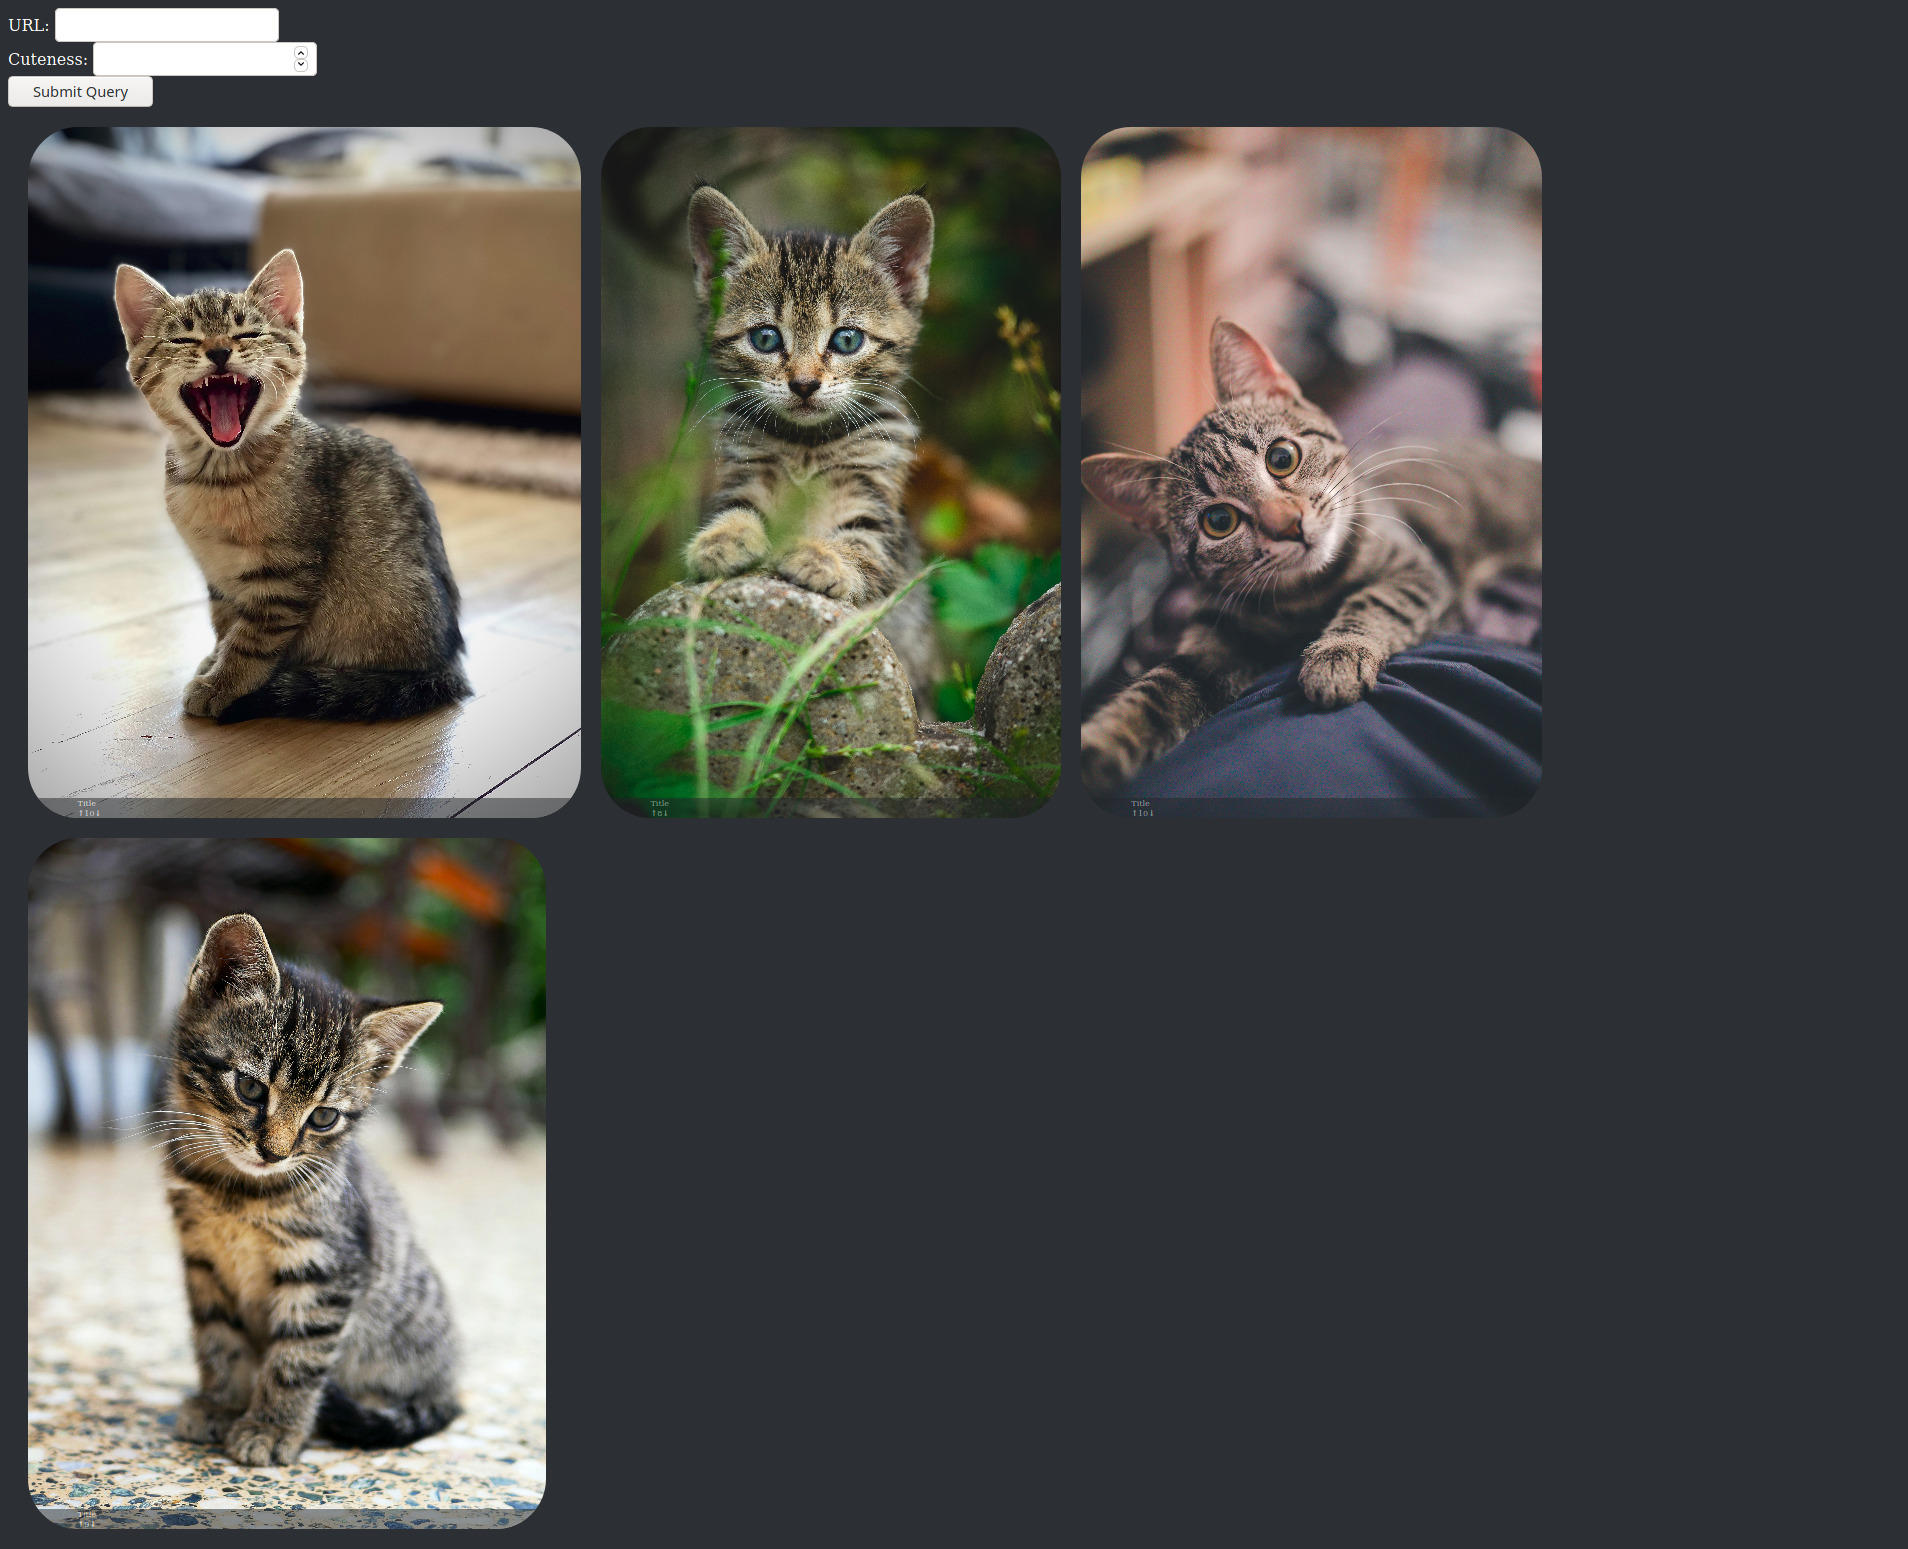
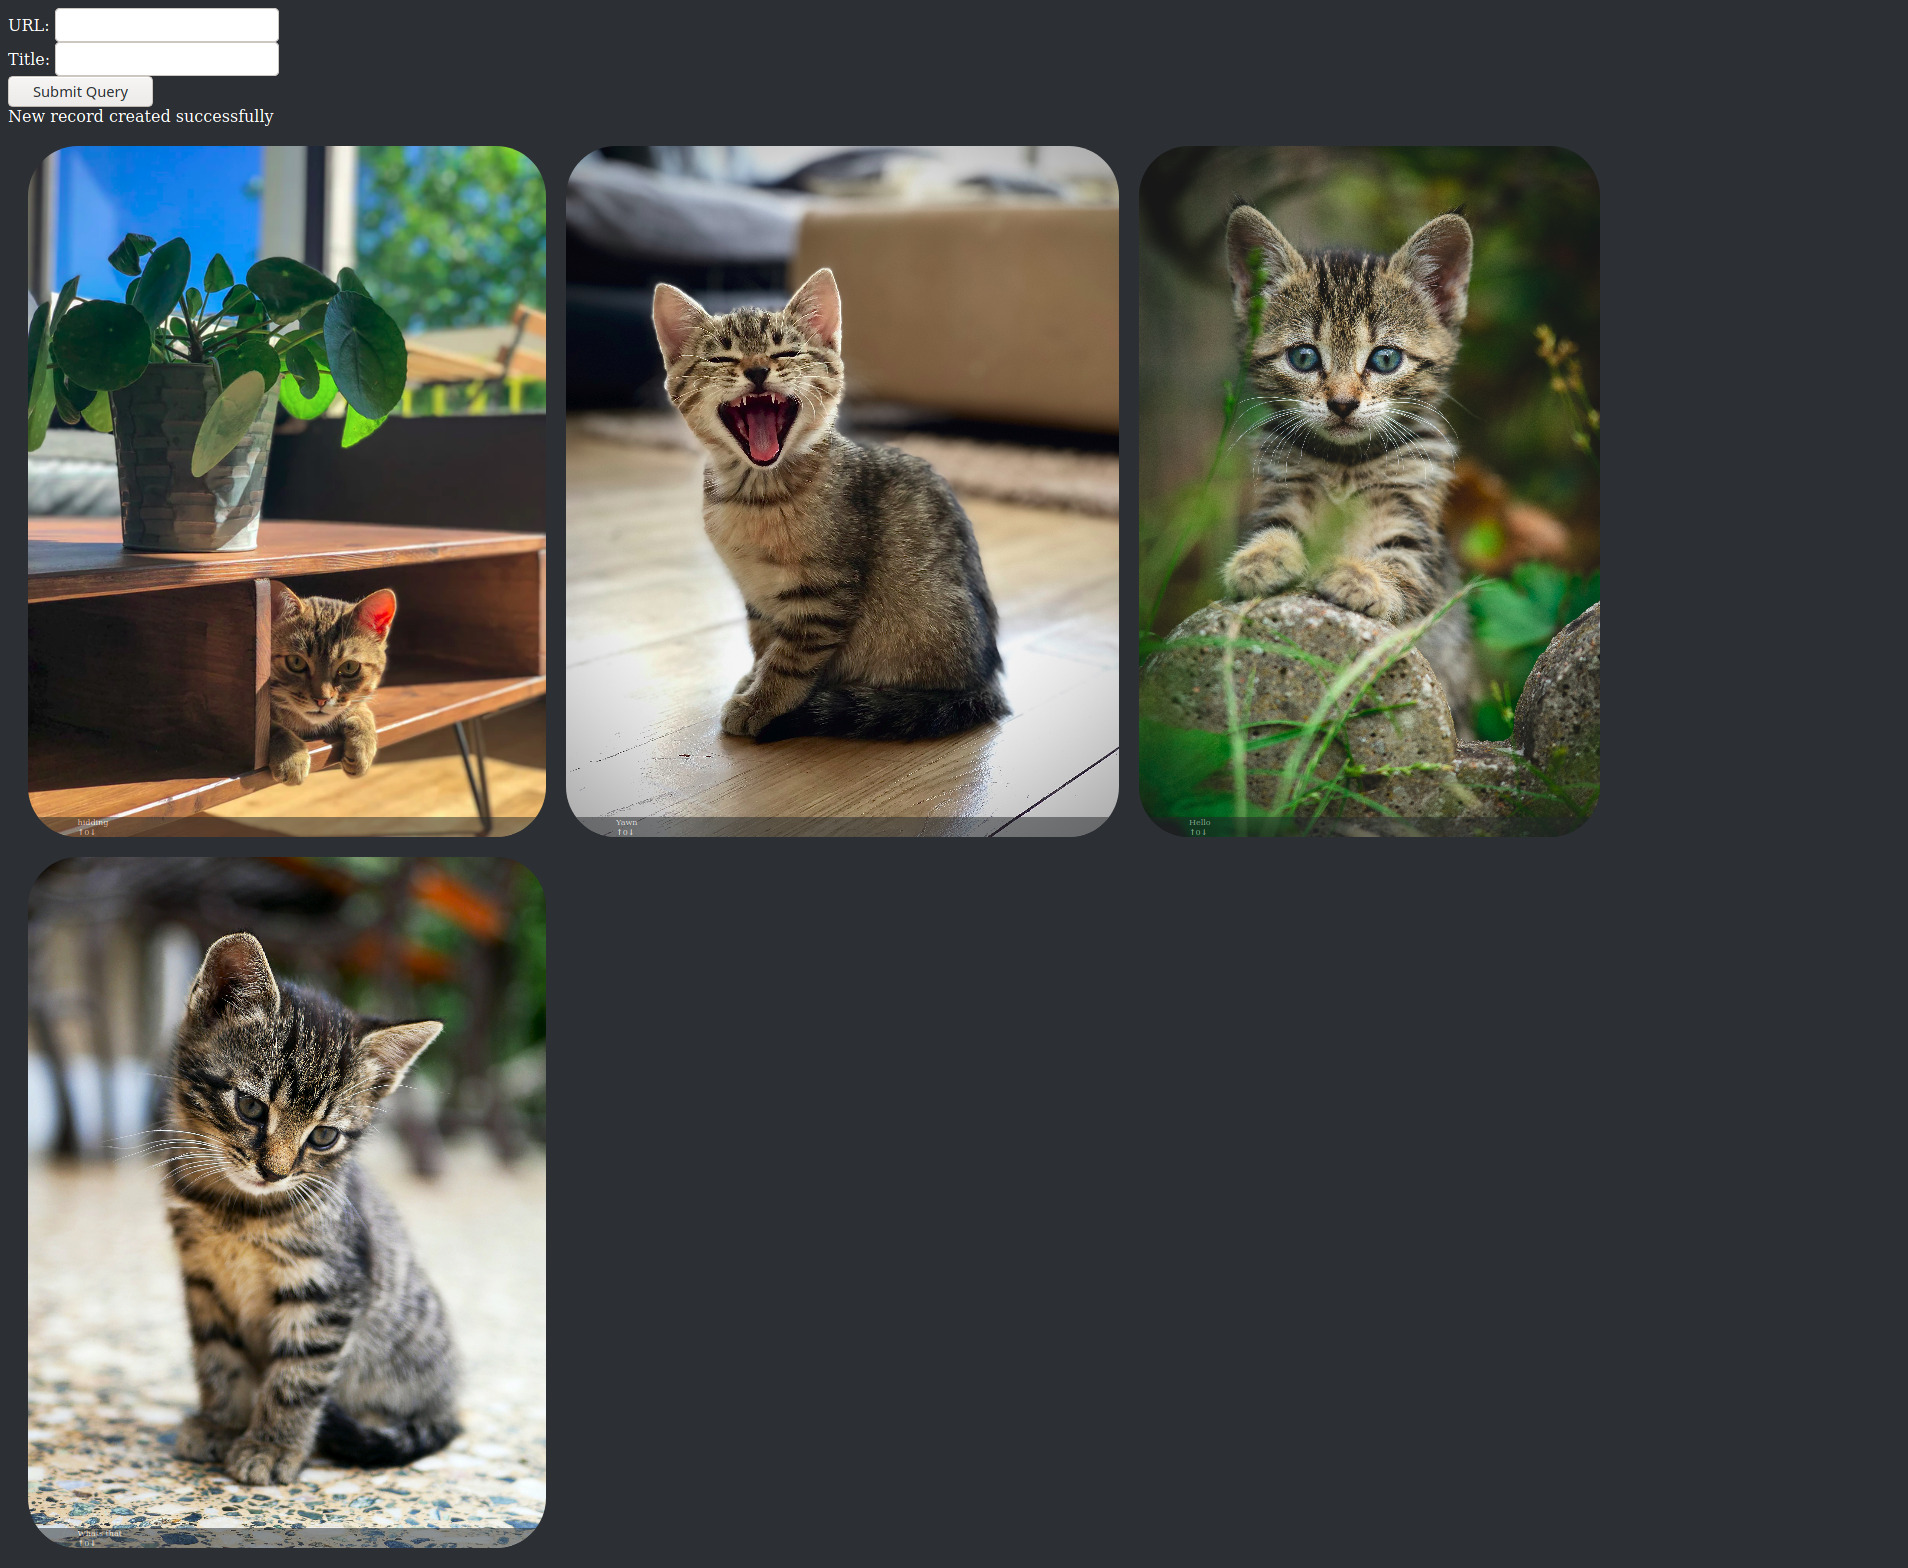
Updated README and Screenshot
Describing the project in README.md

diff --git a/README.md b/README.md
@@ -1,3 +1,93 @@
 # CatImgDB
-CatImgDB PHP and SQL code.
-![Image](https://cdn.discordapp.com/attachments/757899868109799435/764800663955046400/unknown.png)
+CatImgDB is the de-facto web database for collection and rating of cat images. It is written in HTML, CSS, PHP and mySQL.
+
+## What is this
+This is the code for a yet to be released website (due to security issues). This allows the collection and rating of images.
+
+## Installation requirements:
+- Web server
+	- Tested on `Apache` `v2.4.46` web server
+- PHP
+	- Tested on `PHP` `v7.4.10`
+- MySQL compatible DBMS
+	- Tested on `MariaDB` `v10.5.5`
+- SQL manager
+	- Tested on phpMyAdmin
+- Operating System
+	- Tested on `Manjaro Linux x86_64`
+		- Kernel `GNU/Linux 5.8.11-1-MANJARO`
+
+## How to install
+1. login to your `SQL Manager` and add a new user
+2. Make a new database
+3. Run the SQL in `sql.sql` in the new database
+4. Save the new users `username`, `password` and name of the new database in a file called  `index.php.pwd` with the format:
+```
+[username]
+[password
+[database]
+```
+5. Save `index.php.pwd` to the root directory of the web server
+6. Copy `src/index.php` to the root directory of the web server
+7. Connect to it through [localhost](http://localhost/index.php)
+
+## FAQ
+- Can this code be used for other pictures besides cats?  
+Technically yes, we have not yet added are [CatID AI](#catid) yet so there is nothing stopping this code being used to build another image site. 
+- Where can i access this site?  
+Nowhere, unsettlingly this site is not yet public.
+- Why is this site not public yet? When will it be?  
+This site is not ready for public, this is due to security and quality issues.  
+We have no time frame for when it will be public.
+- How can I help?  
+As I am doing this project to learn SQL I would really appreciate it if you would review my code for any bad practices and test it to find if there are any bugs.
+- How will this be financially viable?  
+Once are user-base is big enough we will introduce Cat-verts (cat advert), an advert with a cat in it that is also be rate-able, this will allow us to keep to our sole aim of collecting and rating all cat images in the world as the cat-vert will technically class-able as a cat image.
+- What makes this the de-facto web database for cat images?  
+It has a [plan](#todo)  
+It has been designed to be [much better than competitors](#whybetter)  
+Its main and only purpose is to be a `web database for cat images`
+
+
+## <span id="todo">To Do List</span>
+### Done
+- [x] URL Upload of Cat Image
+- [x] Form for URL uploading
+- [x] Displaying the DB
+
+### Currently working on
+- [ ] Rating system
+- [ ] Reporting System
+	- To get rid of anything that is not biologically a cat
+
+### Plans for the future
+- [ ] CatImgDB Account
+- [ ] API
+- [ ] Security
+- [ ] Upload from computers
+
+### Dreams
+- [ ] Decentralize, allows multiple CatImgDB to communicate to expand DB.
+- [ ] <span id="catid">CatID</span>
+	- A AI program that has two tasks:
+		- Identifies if something is a cat or not and then allow or mark it for approval.
+		- Take over the world
+
+## <span id="whybetter">Why is this better than all the competition?</span>
+- CatImgDB sole aim is to collect and rate every cat image
+	- [Instagram](https://www.instagram.com/), [Flickr](https://www.flickr.com/), [unsplash](https://Unsplash.com/) and other image websites are aimed at collection of all types of images, not just cat images, thus won't be as good.
+	- [r/cats](https://www.reddit.com/r/cats/) is not solely aimed at the collection and rating of cat images but everything about cats.
+- CatImgDB is distraction free, only cat images
+	- [r/cats](https://www.reddit.com/r/cats/) and [r/kittens](https://www.reddit.com/r/kittens/) both allow text posts and videos, these are not Cat Images thus are distractions, thus inferior.
+- CatImgDB provides a barrier-less experience, all you need is a title and a URL of a cat image
+	- [r/cats](https://www.reddit.com/r/cats/) does not allow accounts less than 10 days old or have less than 50 karma to post, thus preventing the collection of cat images.
+
+## Versions
+### v0.1 [current]
+It can currently take a URL with a title and add it to a SQL database.
+It can then show that database as a grid of pictures with title at the bottom. Its title will expand and become more visible when the picture is hovered over.
+
+## Screenshot
+![Screenshot 1, v0.1](ss0.jpg)
+Current cat pictures are from [unsplash](https://Unsplash.com/).
+
